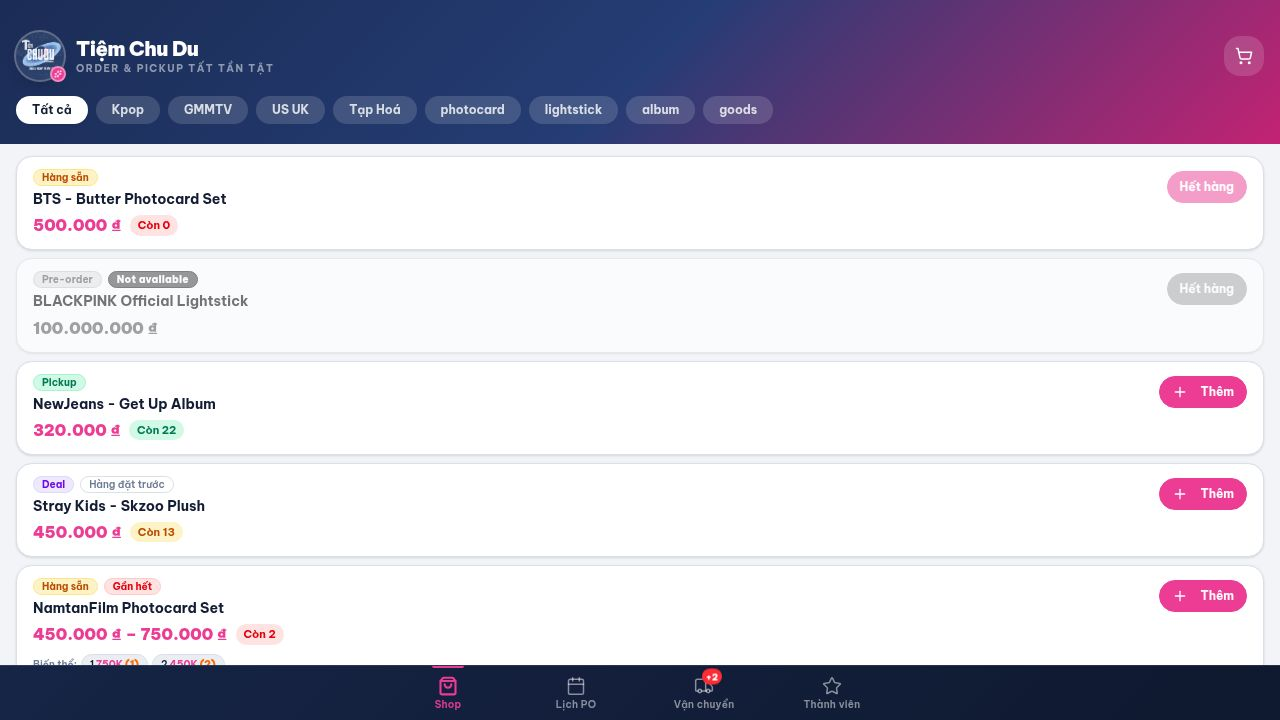
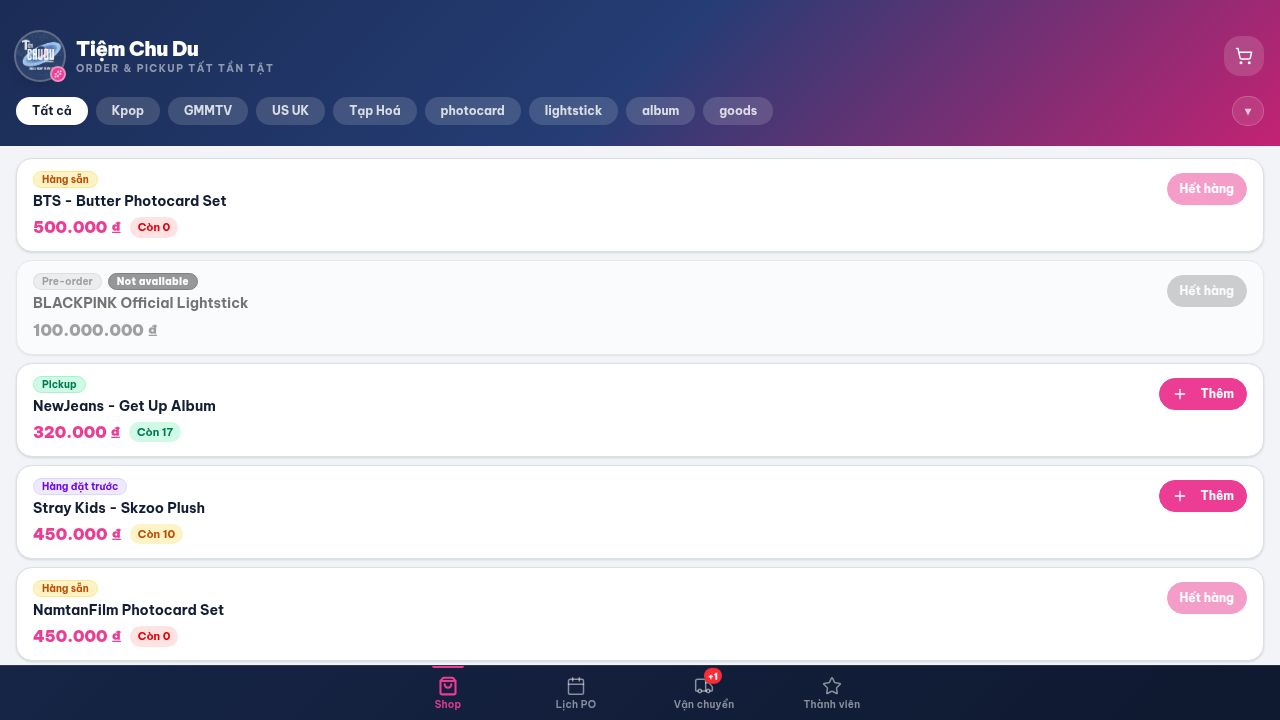
Add an estimated arrival date for shipping updates
Updates the shipping functionality to include a new field for the estimated arrival date, affecting both the admin form and the customer-facing shipping page.

Replit-Commit-Author: Agent
Replit-Commit-Session-Id: b36a77dd-b933-4a2e-a1b0-a6b24cfc9867
Replit-Commit-Checkpoint-Type: full_checkpoint
Replit-Commit-Event-Id: f17a8266-9063-4208-a71a-bcec868914e0
Replit-Commit-Screenshot-Url: https://storage.googleapis.com/screenshot-production-us-central1/088b5274-d91a-4934-8c65-893e9ec0787e/b36a77dd-b933-4a2e-a1b0-a6b24cfc9867/XeWKg11
Replit-Helium-Checkpoint-Created: true

diff --git a/artifacts/idol-shop/src/pages/shipping.tsx b/artifacts/idol-shop/src/pages/shipping.tsx
@@ -140,6 +140,7 @@ type Update = {
   description: string;
   status: string;
   estimatedDate: string | null;
+  estimatedArrivalDate: string | null;
   createdAt: string;
 };
 
@@ -196,9 +197,18 @@ function ShippingModal({ update, onClose }: { update: Update; onClose: () => voi
               <div className="bg-primary/10 rounded-2xl p-3">
                 <div className="flex items-center gap-1.5 text-primary mb-1">
                   <MapPin size={13} />
-                  <span className="text-[11px] font-semibold">Dự kiến</span>
+                  <span className="text-[11px] font-semibold">🚚 Ngày đi hàng</span>
                 </div>
                 <p className="text-sm font-bold text-primary">{update.estimatedDate}</p>
+              </div>
+            )}
+            {update.estimatedArrivalDate && (
+              <div className="bg-emerald-500/10 rounded-2xl p-3">
+                <div className="flex items-center gap-1.5 text-emerald-700 mb-1">
+                  <MapPin size={13} />
+                  <span className="text-[11px] font-semibold">📦 Ngày hàng về</span>
+                </div>
+                <p className="text-sm font-bold text-emerald-700">{update.estimatedArrivalDate}</p>
               </div>
             )}
           </div>
@@ -776,11 +786,22 @@ export default function ShippingPage() {
                         <ChevronRight size={14} className="text-muted-foreground" />
                       </div>
                     </div>
-                    {update.estimatedDate && (
-                      <div className="mt-3 pt-3 border-t border-border flex items-center gap-1.5">
-                        <MapPin size={11} className="text-primary" />
-                        <span className="text-xs text-muted-foreground">Dự kiến:</span>
-                        <span className="text-xs font-bold text-primary">{update.estimatedDate}</span>
+                    {(update.estimatedDate || update.estimatedArrivalDate) && (
+                      <div className="mt-3 pt-3 border-t border-border flex flex-wrap gap-x-4 gap-y-1">
+                        {update.estimatedDate && (
+                          <div className="flex items-center gap-1.5">
+                            <MapPin size={11} className="text-primary" />
+                            <span className="text-xs text-muted-foreground">🚚 Đi hàng:</span>
+                            <span className="text-xs font-bold text-primary">{update.estimatedDate}</span>
+                          </div>
+                        )}
+                        {update.estimatedArrivalDate && (
+                          <div className="flex items-center gap-1.5">
+                            <MapPin size={11} className="text-emerald-600" />
+                            <span className="text-xs text-muted-foreground">📦 Hàng về:</span>
+                            <span className="text-xs font-bold text-emerald-700">{update.estimatedArrivalDate}</span>
+                          </div>
+                        )}
                       </div>
                     )}
                   </button>

diff --git a/artifacts/idol-shop/src/pages/admin.tsx b/artifacts/idol-shop/src/pages/admin.tsx
@@ -2969,7 +2969,7 @@ function ShippingTab() {
     queryFn: async () => {
       const res = await fetch(`${base}/api/shipping?all=true`, { cache: "no-store" });
       if (!res.ok) return [];
-      return res.json() as Promise<Array<{ id: number; title: string; description: string; status: string; estimatedDate: string | null; returnedAt: string | null; createdAt: string }>>;
+      return res.json() as Promise<Array<{ id: number; title: string; description: string; status: string; estimatedDate: string | null; estimatedArrivalDate: string | null; returnedAt: string | null; createdAt: string }>>;
     },
   });
   const createUpdate = useCreateShippingUpdate();
@@ -2979,11 +2979,11 @@ function ShippingTab() {
   const { toast } = useToast();
   const [open, setOpen] = useState(false);
   const [editId, setEditId] = useState<number | null>(null);
-  const [form, setForm] = useState({ title: "", description: "", status: "preparing", estimatedDate: "" });
+  const [form, setForm] = useState({ title: "", description: "", status: "preparing", estimatedDate: "", estimatedArrivalDate: "" });
 
-  const resetForm = () => setForm({ title: "", description: "", status: "preparing", estimatedDate: "" });
+  const resetForm = () => setForm({ title: "", description: "", status: "preparing", estimatedDate: "", estimatedArrivalDate: "" });
   const openEdit = (u: NonNullable<typeof updates>[0]) => {
-    setEditId(u.id); setForm({ title: u.title, description: u.description, status: u.status, estimatedDate: u.estimatedDate ?? "" }); setOpen(true);
+    setEditId(u.id); setForm({ title: u.title, description: u.description, status: u.status, estimatedDate: u.estimatedDate ?? "", estimatedArrivalDate: u.estimatedArrivalDate ?? "" }); setOpen(true);
   };
 
   const invalidate = () => {
@@ -2993,7 +2993,7 @@ function ShippingTab() {
 
   const handleSave = () => {
     if (!form.title || !form.description) { toast({ title: "Nhập đủ thông tin", variant: "destructive" }); return; }
-    const data = { title: form.title, description: form.description, status: form.status, estimatedDate: form.estimatedDate || null };
+    const data = { title: form.title, description: form.description, status: form.status, estimatedDate: form.estimatedDate || null, estimatedArrivalDate: form.estimatedArrivalDate || null };
     if (editId) {
       updateUpdate.mutate({ id: editId, data }, { onSuccess: () => { invalidate(); setOpen(false); resetForm(); setEditId(null); toast({ title: "Đã cập nhật" }); } });
     } else {
@@ -3024,7 +3024,10 @@ function ShippingTab() {
                 </SelectContent>
               </Select>
             </div>
-            <div><Label>Ngày dự kiến</Label><Input type="date" value={form.estimatedDate} onChange={(e) => setForm({ ...form, estimatedDate: e.target.value })} className="rounded-xl mt-1" /></div>
+            <div className="grid grid-cols-2 gap-2">
+              <div><Label className="text-xs">🚚 Dự kiến ngày đi hàng</Label><Input type="date" value={form.estimatedDate} onChange={(e) => setForm({ ...form, estimatedDate: e.target.value })} className="rounded-xl mt-1" /></div>
+              <div><Label className="text-xs">📦 Dự kiến ngày hàng về</Label><Input type="date" value={form.estimatedArrivalDate} onChange={(e) => setForm({ ...form, estimatedArrivalDate: e.target.value })} className="rounded-xl mt-1" /></div>
+            </div>
             <Button className="w-full rounded-xl" onClick={handleSave} data-testid="button-save-shipping">Lưu</Button>
           </div>
         </DialogContent>

diff --git a/lib/db/src/schema/shipping.ts b/lib/db/src/schema/shipping.ts
@@ -13,6 +13,7 @@ export const shippingUpdatesTable = pgTable("shipping_updates", {
   description: text("description").notNull(),
   status: text("status").notNull().default("preparing"),
   estimatedDate: text("estimated_date"),
+  estimatedArrivalDate: text("estimated_arrival_date"),
   returnedAt: timestamp("returned_at", { withTimezone: true }),
   createdAt: timestamp("created_at", { withTimezone: true }).notNull().defaultNow(),
   updatedAt: timestamp("updated_at", { withTimezone: true }).notNull().defaultNow().$onUpdate(() => new Date()),